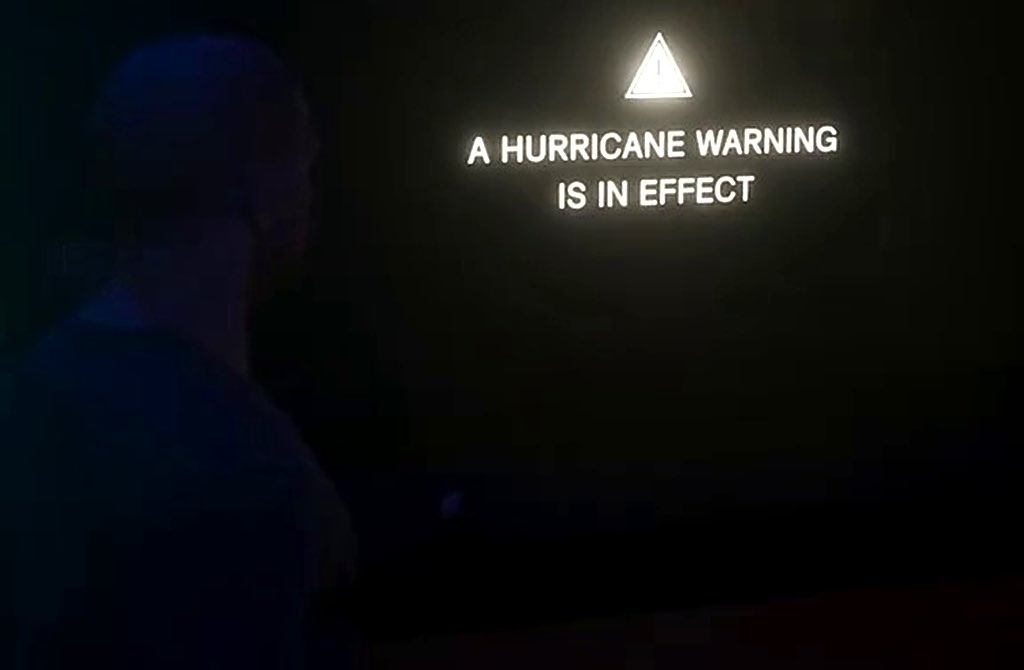
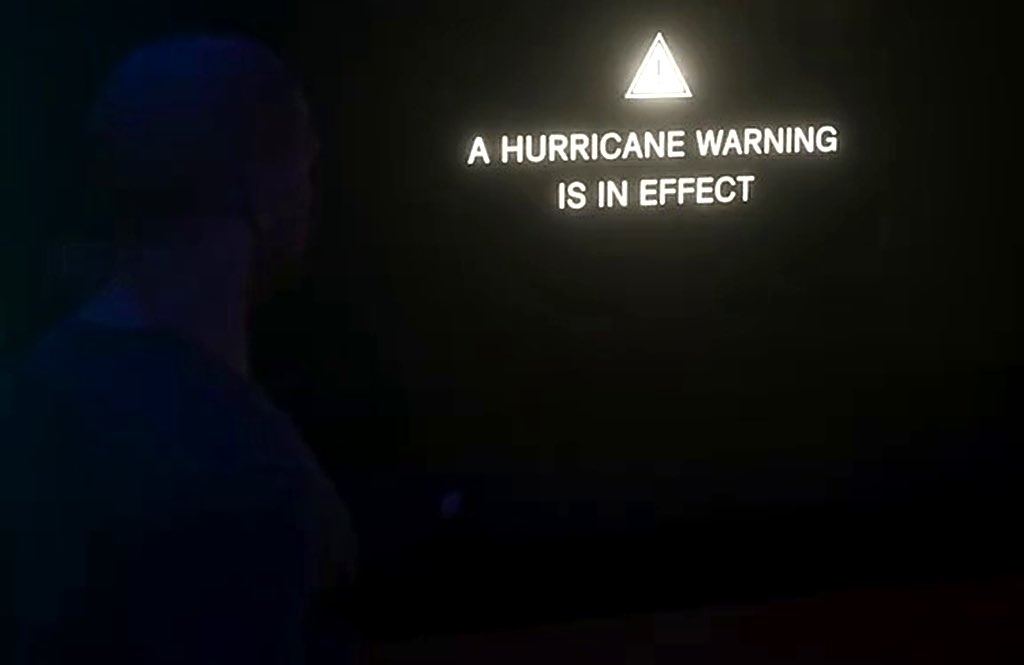
Hurricane slideshow v2 preview: beach cover, image-top/text-bottom step layout

Changed region(s): [[0.4688, 0.1805, 0.8125, 0.3308]]

diff --git a/tools/slides_card_build.py b/tools/slides_card_build.py
@@ -58,6 +58,20 @@ for i, sl in enumerate(C["slides"], 1):
         m = Image.new("L", (w, h), 0); ImageDraw.Draw(m).rounded_rectangle((0, 0, w - 1, h - 1), 22, fill=255)
         d.rounded_rectangle((x - 4, y - 4, x + w + 3, y + h + 3), 26, fill=TEAL); im.paste(src.resize((w, h)), (x, y), m)
         footer(ImageDraw.Draw(im)); im.save(f"{out}/{i:02d}.jpg", quality=93); print(i); continue
+    if sl.get("step"):  # owner 2026-11-25: image = top half, big instruction text = bottom half (no empty space)
+        ih = 640; im = Image.new("RGB", (W, H), BG); im.paste(top_image(src, ih), (0, 0)); im = fade(im, ih - 160, ih + 10)
+        d = ImageDraw.Draw(im); pill(d, i)
+        hf = f8(84)
+        while d.textlength(sl["head"], font=hf) > R - L: hf = f8(hf.size - 4)
+        bs = 56
+        while bs > 34 and (len(wrap(d, sl["body"], f7(bs), R - L)) * int(bs * 1.32) > 1236 - (ih + 140 + hf.size)): bs -= 2
+        blk = 64 + hf.size + 70 + len(wrap(d, sl["body"], f7(bs), R - L)) * int(bs * 1.32)
+        y = ih + 6 + max(0, (1236 - ih - 6 - blk) // 2)  # centre the text block in the lower half
+        d.text((L, y), sl["step"], font=f8(44), fill=TEAL, anchor="lt"); y += 64
+        d.text((L, y), sl["head"], font=hf, fill=WHITE, anchor="lt"); y += hf.size + 30
+        d.rectangle((L, y, L + 120, y + 6), fill=TEAL); y += 34
+        for ln in wrap(d, sl["body"], f7(bs), R - L): d.text((L, y), ln, font=f7(bs), fill=WHITE, anchor="lt"); y += int(bs * 1.32)
+        footer(d); im.save(f"{out}/{i:02d}.jpg", quality=93); print(i); continue
     lst = sl.get("list"); n = len(lst) if lst else 0
     ih = 660 if not lst else (600 if n <= 4 else 380 if n <= 8 else 250)
     im = Image.new("RGB", (W, H), BG); im.paste(top_image(src, ih), (0, 0)); im = fade(im, ih - 220, ih); d = ImageDraw.Draw(im); pill(d, i)
